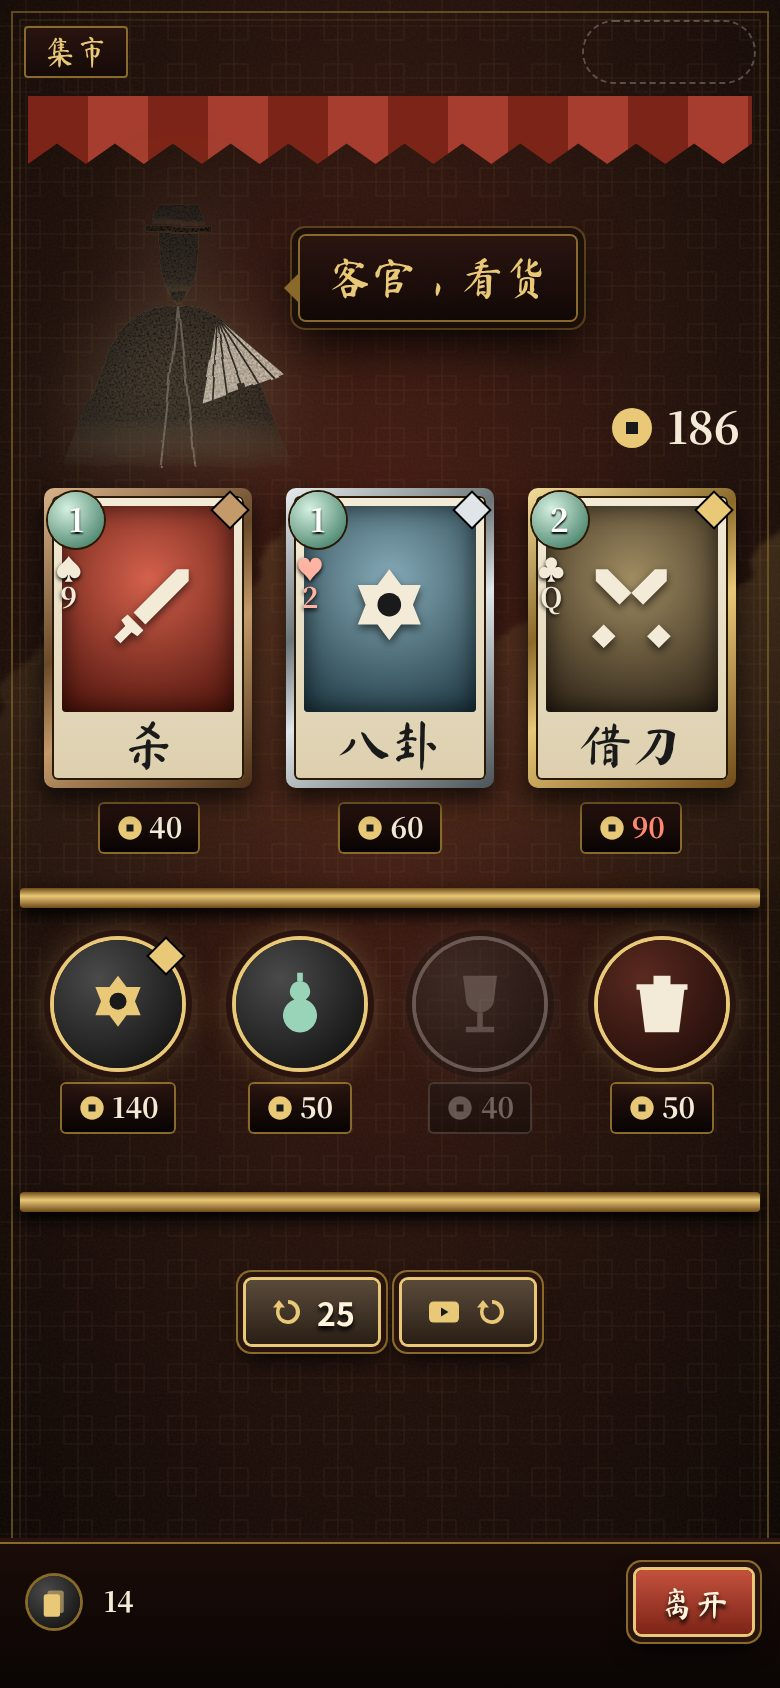
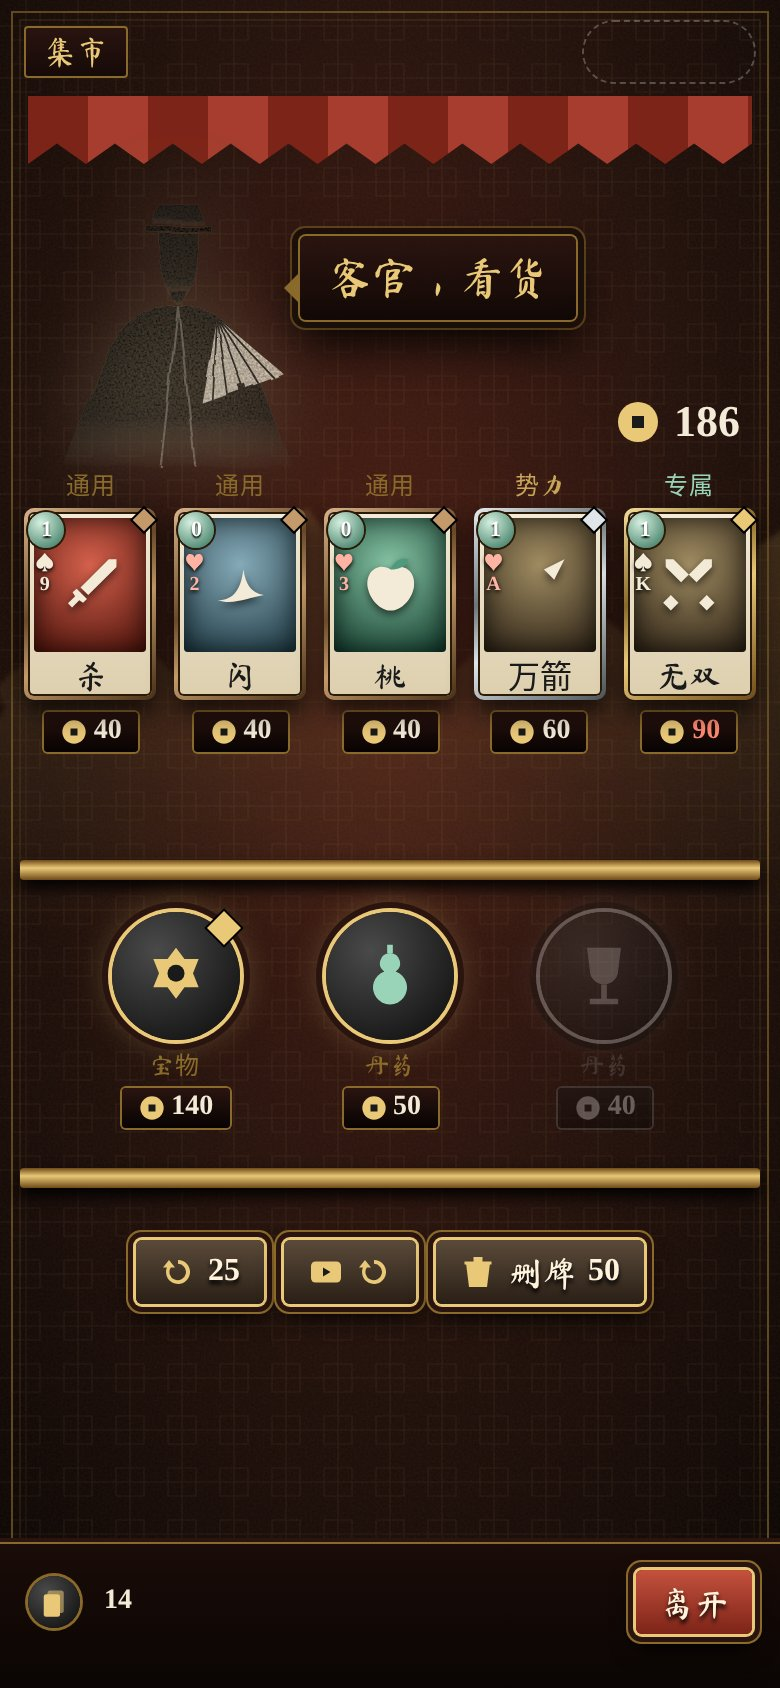
docs(ui): 集市 mockup 改为 5 卡（3 通用 + 1 势力 + 1 专属）
对齐 PRD §10.7 / acceptance：废止旧「3 卡 + 4 物」布局；
宝物×1 + 丹药×2 等距，删牌改为刷新栏服务按钮；同步 render-spec 布局摘要与截图。

Changed region(s): [[0.0308, 0.2156, 0.9846, 0.8009], [0.9231, 0.5853, 0.9538, 0.6161]]

diff --git a/docs/ui/mockups-v3/shop.html b/docs/ui/mockups-v3/shop.html
@@ -5,17 +5,28 @@
 .say{position:absolute;left:150px;top:70px;padding:10px 14px;font-family:Brush;font-size:22px;color:var(--gold)}
 .say::before{content:"";position:absolute;left:-8px;top:18px;border:8px solid transparent;border-right-color:var(--gold-lo);border-left:0}
 .coins{position:absolute;right:20px;top:150px;display:flex;align-items:center;gap:6px;font-size:22px}.coins svg{width:24px;height:24px;fill:var(--gold)}
-.zone{position:absolute;left:14px;right:14px}
-.cards{top:244px;display:flex;justify-content:space-around}
-.it{display:flex;flex-direction:column;align-items:center;gap:8px}
+.zone{position:absolute;left:10px;right:10px}
+.cards{top:236px;display:flex;justify-content:space-between;align-items:flex-end;gap:4px}
+.it{display:flex;flex-direction:column;align-items:center;gap:6px;flex:1;min-width:0}
 .it.sold{opacity:.35;filter:grayscale(1)}
+/* 5 卡用中号牌（72→略压），大牌装不下；奖励页仍用 .big */
+.card.shop{width:66px;height:96px;padding:2px}
+.card.shop .art{inset:3px 3px 22px}
+.card.shop .cn{font-size:16px;bottom:2px}
+.card.shop .c{width:18px;height:18px;line-height:18px;font-size:11px}
+.card.shop .su{top:22px;font-size:10px;line-height:10px}
+.card.shop .rar{width:8px;height:8px;right:2px;top:2px}
+.slot{font-family:Brush;font-size:12px;color:var(--gold-lo);letter-spacing:.5px;line-height:1}
+.slot.faction{color:#c9a55a}
+.slot.exclusive{color:#9ad4b8}
 .shelf{position:absolute;left:10px;right:10px;height:10px;background:linear-gradient(#6e4a18,#e9c877 40%,#6e4a18);border-radius:2px;box-shadow:0 4px 8px #000}
-.row2{top:470px;display:flex;justify-content:space-around;align-items:flex-end}
+/* 1 宝物 + 2 丹药等距；删牌改为服务按钮，不再占「4 物」槽 */
+.row2{top:456px;display:flex;justify-content:space-around;align-items:flex-end;padding:0 24px}
 .orb{width:64px;height:64px;border-radius:50%;display:grid;place-items:center;background:radial-gradient(circle at 35% 30%,#4a4a4a,#0a0a0a);box-shadow:0 0 0 2px var(--gold),0 0 0 5px var(--lac-3),0 0 18px rgba(233,200,119,.4)}
 .orb svg{width:34px;height:34px;fill:var(--gold)}.orb.p svg{fill:#9ad4b8}.orb.w svg{fill:#ff9a85}.orb.x{background:radial-gradient(circle at 35% 30%,#5a2a20,#1a0806)}.orb.x svg{fill:var(--paper)}
 .orb{position:relative}.gem{position:absolute;right:2px;top:2px;width:12px;height:12px;transform:rotate(45deg);background:var(--gold);box-shadow:0 0 0 1px #000}
 .sale{position:absolute;margin:-120px 0 0 60px;width:34px;height:34px;line-height:34px;font-size:15px;border-radius:50%;transform:rotate(12deg)}
-.refresh{top:640px;display:flex;justify-content:center;gap:12px}
+.refresh{top:620px;display:flex;justify-content:center;gap:10px;flex-wrap:wrap}
 .bar .btn{margin-left:auto}
 </style></head><body><svg width="0" height="0" style="position:absolute" aria-hidden="true">
 <defs>
@@ -147,14 +158,13 @@
 
 <div class="top"><div class="tb brush" style="font-size:16px;color:var(--gold)">集市</div><div class="sp"></div><div class="capsule"></div></div>
 <div class="stall"><div class="awn"></div><svg class="merchant"><use href="#scholar"/></svg><div class="say panel">客官，看货</div><div class="coins"><svg><use href="#i-coin"/></svg><span class="num">186</span></div></div>
-<div class="zone cards" id="cards"></div><div class="shelf" style="top:444px"></div>
+<div class="zone cards" id="cards"></div><div class="shelf" style="top:430px"></div>
 <div class="zone row2">
- <div class="it"><div class="orb"><svg><use href="#i-jade"/></svg><span class="gem"></span></div><span class="price"><svg><use href="#i-coin"/></svg><span class="num">140</span></span></div>
- <div class="it"><div class="orb p"><svg><use href="#i-gourd"/></svg></div><span class="price"><svg><use href="#i-coin"/></svg><span class="num">50</span></span></div>
- <div class="it sold"><div class="orb w"><svg><use href="#i-wine"/></svg></div><span class="price"><svg><use href="#i-coin"/></svg><span class="num">40</span></span></div>
- <div class="it"><div class="orb x"><svg><use href="#i-trash"/></svg></div><span class="price"><svg><use href="#i-coin"/></svg><span class="num">50</span></span></div>
-</div><div class="shelf" style="top:596px"></div>
-<div class="zone refresh"><div class="btn sec sm"><svg><use href="#i-refresh"/></svg><span class="num">25</span></div><div class="btn sec sm"><svg><use href="#i-ad"/></svg><svg><use href="#i-refresh"/></svg></div></div>
+ <div class="it"><div class="orb"><svg><use href="#i-jade"/></svg><span class="gem"></span></div><span class="slot">宝物</span><span class="price"><svg><use href="#i-coin"/></svg><span class="num">140</span></span></div>
+ <div class="it"><div class="orb p"><svg><use href="#i-gourd"/></svg></div><span class="slot">丹药</span><span class="price"><svg><use href="#i-coin"/></svg><span class="num">50</span></span></div>
+ <div class="it sold"><div class="orb w"><svg><use href="#i-wine"/></svg></div><span class="slot">丹药</span><span class="price"><svg><use href="#i-coin"/></svg><span class="num">40</span></span></div>
+</div><div class="shelf" style="top:584px"></div>
+<div class="zone refresh"><div class="btn sec sm"><svg><use href="#i-refresh"/></svg><span class="num">25</span></div><div class="btn sec sm"><svg><use href="#i-ad"/></svg><svg><use href="#i-refresh"/></svg></div><div class="btn sec sm"><svg><use href="#i-trash"/></svg><span>删牌</span><span class="num">50</span></div></div>
 <div class="bar"><div class="ico"><svg><use href="#i-deck"/></svg></div><span class="num" style="font-size:14px">14</span><div class="btn sm">离开</div></div>
 </div>
 <script>const use=(id,cls='')=>`<svg class="${cls}"><use href="#${id}"/></svg>`;
@@ -164,6 +174,13 @@ const beads=(h,m)=>`<div class="beads">${Array.from({length:m},(_,k)=>`<i class=
 const HEROES=[{n:'吕布',f:'qun',fa:'群',hp:9,s:'boss'},{n:'貂蝉',f:'qun',fa:'群',hp:7,s:'lady'},{n:'赵云',f:'shu',fa:'蜀',hp:8,s:'hero'},{n:'刘备',f:'shu',fa:'蜀',hp:8,s:'hero2'},{n:'郭嘉',f:'wei',fa:'魏',hp:8,s:'scholar'},{n:'曹操',f:'wei',fa:'魏',hp:9,s:'hero2'},{n:'周瑜',f:'wu',fa:'吴',hp:8,s:'scholar'},{n:'陆逊',f:'wu',fa:'吴',hp:7,s:'scholar'}];
 function longpress(el,fn){let t;el.addEventListener('pointerdown',()=>{t=setTimeout(fn,420)});['pointerup','pointerleave'].forEach(v=>el.addEventListener(v,()=>clearTimeout(t)));}
 
-const C=[{n:'杀',c:1,s:'♠',p:'9',k:'atk',i:'i-sword',r:'N',$:40},{n:'八卦',c:1,s:'♥',p:'2',k:'def',i:'i-jade',r:'R',$:60},{n:'借刀',c:2,s:'♣',p:'Q',k:'skill',i:'i-swords',r:'E',$:90,no:1}];
-cards.innerHTML=C.map((c,i)=>`<div class="it">${card(c,'big')}<span class="price ${c.no?'no':''}"><svg><use href="#i-coin"/></svg><span class="num">${c.$}</span></span></div>`).join('');
+/* PRD §10.7：5 卡 = 3 通用 + 1 势力 + 1 专属；废止旧「3卡+4物」 */
+const C=[
+  {n:'杀',c:1,s:'♠',p:'9',k:'atk',i:'i-sword',r:'N',$:40,slot:'通用',slotCls:''},
+  {n:'闪',c:0,s:'♥',p:'2',k:'def',i:'i-dodge',r:'N',$:40,slot:'通用',slotCls:''},
+  {n:'桃',c:0,s:'♥',p:'3',k:'heal',i:'i-peach',r:'N',$:40,slot:'通用',slotCls:''},
+  {n:'万箭',c:1,s:'♥',p:'A',k:'skill',i:'i-arrow',r:'R',$:60,slot:'势力',slotCls:'faction'},
+  {n:'无双',c:1,s:'♠',p:'K',k:'skill',i:'i-swords',r:'E',$:90,slot:'专属',slotCls:'exclusive',no:1},
+];
+cards.innerHTML=C.map((c)=>`<div class="it ${c.no?'':''}"><span class="slot ${c.slotCls}">${c.slot}</span>${card(c,'shop')}<span class="price ${c.no?'no':''}"><svg><use href="#i-coin"/></svg><span class="num">${c.$}</span></span></div>`).join('');
 </script></body></html>

diff --git a/public/mockups/v3/shop.html b/public/mockups/v3/shop.html
@@ -5,17 +5,28 @@
 .say{position:absolute;left:150px;top:70px;padding:10px 14px;font-family:Brush;font-size:22px;color:var(--gold)}
 .say::before{content:"";position:absolute;left:-8px;top:18px;border:8px solid transparent;border-right-color:var(--gold-lo);border-left:0}
 .coins{position:absolute;right:20px;top:150px;display:flex;align-items:center;gap:6px;font-size:22px}.coins svg{width:24px;height:24px;fill:var(--gold)}
-.zone{position:absolute;left:14px;right:14px}
-.cards{top:244px;display:flex;justify-content:space-around}
-.it{display:flex;flex-direction:column;align-items:center;gap:8px}
+.zone{position:absolute;left:10px;right:10px}
+.cards{top:236px;display:flex;justify-content:space-between;align-items:flex-end;gap:4px}
+.it{display:flex;flex-direction:column;align-items:center;gap:6px;flex:1;min-width:0}
 .it.sold{opacity:.35;filter:grayscale(1)}
+/* 5 卡用中号牌（72→略压），大牌装不下；奖励页仍用 .big */
+.card.shop{width:66px;height:96px;padding:2px}
+.card.shop .art{inset:3px 3px 22px}
+.card.shop .cn{font-size:16px;bottom:2px}
+.card.shop .c{width:18px;height:18px;line-height:18px;font-size:11px}
+.card.shop .su{top:22px;font-size:10px;line-height:10px}
+.card.shop .rar{width:8px;height:8px;right:2px;top:2px}
+.slot{font-family:Brush;font-size:12px;color:var(--gold-lo);letter-spacing:.5px;line-height:1}
+.slot.faction{color:#c9a55a}
+.slot.exclusive{color:#9ad4b8}
 .shelf{position:absolute;left:10px;right:10px;height:10px;background:linear-gradient(#6e4a18,#e9c877 40%,#6e4a18);border-radius:2px;box-shadow:0 4px 8px #000}
-.row2{top:470px;display:flex;justify-content:space-around;align-items:flex-end}
+/* 1 宝物 + 2 丹药等距；删牌改为服务按钮，不再占「4 物」槽 */
+.row2{top:456px;display:flex;justify-content:space-around;align-items:flex-end;padding:0 24px}
 .orb{width:64px;height:64px;border-radius:50%;display:grid;place-items:center;background:radial-gradient(circle at 35% 30%,#4a4a4a,#0a0a0a);box-shadow:0 0 0 2px var(--gold),0 0 0 5px var(--lac-3),0 0 18px rgba(233,200,119,.4)}
 .orb svg{width:34px;height:34px;fill:var(--gold)}.orb.p svg{fill:#9ad4b8}.orb.w svg{fill:#ff9a85}.orb.x{background:radial-gradient(circle at 35% 30%,#5a2a20,#1a0806)}.orb.x svg{fill:var(--paper)}
 .orb{position:relative}.gem{position:absolute;right:2px;top:2px;width:12px;height:12px;transform:rotate(45deg);background:var(--gold);box-shadow:0 0 0 1px #000}
 .sale{position:absolute;margin:-120px 0 0 60px;width:34px;height:34px;line-height:34px;font-size:15px;border-radius:50%;transform:rotate(12deg)}
-.refresh{top:640px;display:flex;justify-content:center;gap:12px}
+.refresh{top:620px;display:flex;justify-content:center;gap:10px;flex-wrap:wrap}
 .bar .btn{margin-left:auto}
 </style></head><body><svg width="0" height="0" style="position:absolute" aria-hidden="true">
 <defs>
@@ -147,14 +158,13 @@
 
 <div class="top"><div class="tb brush" style="font-size:16px;color:var(--gold)">集市</div><div class="sp"></div><div class="capsule"></div></div>
 <div class="stall"><div class="awn"></div><svg class="merchant"><use href="#scholar"/></svg><div class="say panel">客官，看货</div><div class="coins"><svg><use href="#i-coin"/></svg><span class="num">186</span></div></div>
-<div class="zone cards" id="cards"></div><div class="shelf" style="top:444px"></div>
+<div class="zone cards" id="cards"></div><div class="shelf" style="top:430px"></div>
 <div class="zone row2">
- <div class="it"><div class="orb"><svg><use href="#i-jade"/></svg><span class="gem"></span></div><span class="price"><svg><use href="#i-coin"/></svg><span class="num">140</span></span></div>
- <div class="it"><div class="orb p"><svg><use href="#i-gourd"/></svg></div><span class="price"><svg><use href="#i-coin"/></svg><span class="num">50</span></span></div>
- <div class="it sold"><div class="orb w"><svg><use href="#i-wine"/></svg></div><span class="price"><svg><use href="#i-coin"/></svg><span class="num">40</span></span></div>
- <div class="it"><div class="orb x"><svg><use href="#i-trash"/></svg></div><span class="price"><svg><use href="#i-coin"/></svg><span class="num">50</span></span></div>
-</div><div class="shelf" style="top:596px"></div>
-<div class="zone refresh"><div class="btn sec sm"><svg><use href="#i-refresh"/></svg><span class="num">25</span></div><div class="btn sec sm"><svg><use href="#i-ad"/></svg><svg><use href="#i-refresh"/></svg></div></div>
+ <div class="it"><div class="orb"><svg><use href="#i-jade"/></svg><span class="gem"></span></div><span class="slot">宝物</span><span class="price"><svg><use href="#i-coin"/></svg><span class="num">140</span></span></div>
+ <div class="it"><div class="orb p"><svg><use href="#i-gourd"/></svg></div><span class="slot">丹药</span><span class="price"><svg><use href="#i-coin"/></svg><span class="num">50</span></span></div>
+ <div class="it sold"><div class="orb w"><svg><use href="#i-wine"/></svg></div><span class="slot">丹药</span><span class="price"><svg><use href="#i-coin"/></svg><span class="num">40</span></span></div>
+</div><div class="shelf" style="top:584px"></div>
+<div class="zone refresh"><div class="btn sec sm"><svg><use href="#i-refresh"/></svg><span class="num">25</span></div><div class="btn sec sm"><svg><use href="#i-ad"/></svg><svg><use href="#i-refresh"/></svg></div><div class="btn sec sm"><svg><use href="#i-trash"/></svg><span>删牌</span><span class="num">50</span></div></div>
 <div class="bar"><div class="ico"><svg><use href="#i-deck"/></svg></div><span class="num" style="font-size:14px">14</span><div class="btn sm">离开</div></div>
 </div>
 <script>const use=(id,cls='')=>`<svg class="${cls}"><use href="#${id}"/></svg>`;
@@ -164,6 +174,13 @@ const beads=(h,m)=>`<div class="beads">${Array.from({length:m},(_,k)=>`<i class=
 const HEROES=[{n:'吕布',f:'qun',fa:'群',hp:9,s:'boss'},{n:'貂蝉',f:'qun',fa:'群',hp:7,s:'lady'},{n:'赵云',f:'shu',fa:'蜀',hp:8,s:'hero'},{n:'刘备',f:'shu',fa:'蜀',hp:8,s:'hero2'},{n:'郭嘉',f:'wei',fa:'魏',hp:8,s:'scholar'},{n:'曹操',f:'wei',fa:'魏',hp:9,s:'hero2'},{n:'周瑜',f:'wu',fa:'吴',hp:8,s:'scholar'},{n:'陆逊',f:'wu',fa:'吴',hp:7,s:'scholar'}];
 function longpress(el,fn){let t;el.addEventListener('pointerdown',()=>{t=setTimeout(fn,420)});['pointerup','pointerleave'].forEach(v=>el.addEventListener(v,()=>clearTimeout(t)));}
 
-const C=[{n:'杀',c:1,s:'♠',p:'9',k:'atk',i:'i-sword',r:'N',$:40},{n:'八卦',c:1,s:'♥',p:'2',k:'def',i:'i-jade',r:'R',$:60},{n:'借刀',c:2,s:'♣',p:'Q',k:'skill',i:'i-swords',r:'E',$:90,no:1}];
-cards.innerHTML=C.map((c,i)=>`<div class="it">${card(c,'big')}<span class="price ${c.no?'no':''}"><svg><use href="#i-coin"/></svg><span class="num">${c.$}</span></span></div>`).join('');
+/* PRD §10.7：5 卡 = 3 通用 + 1 势力 + 1 专属；废止旧「3卡+4物」 */
+const C=[
+  {n:'杀',c:1,s:'♠',p:'9',k:'atk',i:'i-sword',r:'N',$:40,slot:'通用',slotCls:''},
+  {n:'闪',c:0,s:'♥',p:'2',k:'def',i:'i-dodge',r:'N',$:40,slot:'通用',slotCls:''},
+  {n:'桃',c:0,s:'♥',p:'3',k:'heal',i:'i-peach',r:'N',$:40,slot:'通用',slotCls:''},
+  {n:'万箭',c:1,s:'♥',p:'A',k:'skill',i:'i-arrow',r:'R',$:60,slot:'势力',slotCls:'faction'},
+  {n:'无双',c:1,s:'♠',p:'K',k:'skill',i:'i-swords',r:'E',$:90,slot:'专属',slotCls:'exclusive',no:1},
+];
+cards.innerHTML=C.map((c)=>`<div class="it ${c.no?'':''}"><span class="slot ${c.slotCls}">${c.slot}</span>${card(c,'shop')}<span class="price ${c.no?'no':''}"><svg><use href="#i-coin"/></svg><span class="num">${c.$}</span></span></div>`).join('');
 </script></body></html>

diff --git a/docs/ui/render-spec.md b/docs/ui/render-spec.md
@@ -136,7 +136,7 @@
 | 选将 | 标题 52 ｜ 主/副槽 112–352 ｜ 技能印 362–408 ｜ 8 将网格 440–682 ｜ 兵书带入 + 墨值 + 天命 690 ｜ 底栏 72 |
 | 地图 | 顶条 ｜ HUD 面板 48–98（头像、勾玉、铜钱、宝物/丹药）｜ 卷轴 106 到底栏上方（Boss 牌加 8 层节点，可纵向滚动）｜ 底栏 72 |
 | 奖励 | 大印“胜” 70–180 ｜ 战利品胶囊 236 ｜ 标题“择一入卷” 322 ｜ 3 张大牌 376–560 + 词条珠 ｜ 宝物条 600 ｜ 底栏（略过/收入） |
-| 集市 | 店招 48 ｜ 商人加对白 ｜ 铜钱 150 ｜ 卡牌 ×3 + 价签 244–520 ｜ 货架 ｜ 宝物/丹药 ×2/删牌 470–590 ｜ 刷新（25 / 广告）640 ｜ 底栏（离开） |
+| 集市 | 店招 48 ｜ 商人加对白 ｜ 铜钱 150 ｜ 卡牌 ×5（3 通用 + 1 势力 + 1 专属）+ 价签 236–430 ｜ 货架 ｜ 宝物 ×1 + 丹药 ×2 456–584 ｜ 刷新 / 广告 / 删牌服务 620 ｜ 底栏（离开） |
 | 结算 | 立绘 + 竖排“大捷/败北” 40–340 ｜ 统计 4 图标 330 ｜ 将魂 + ×2 广告 430 ｜ 兵书抄录（墨值格 + 可抄卡）510–690 ｜ 底栏（跳过/抄录） |
 
 ## 5. 动效时序与缓动
